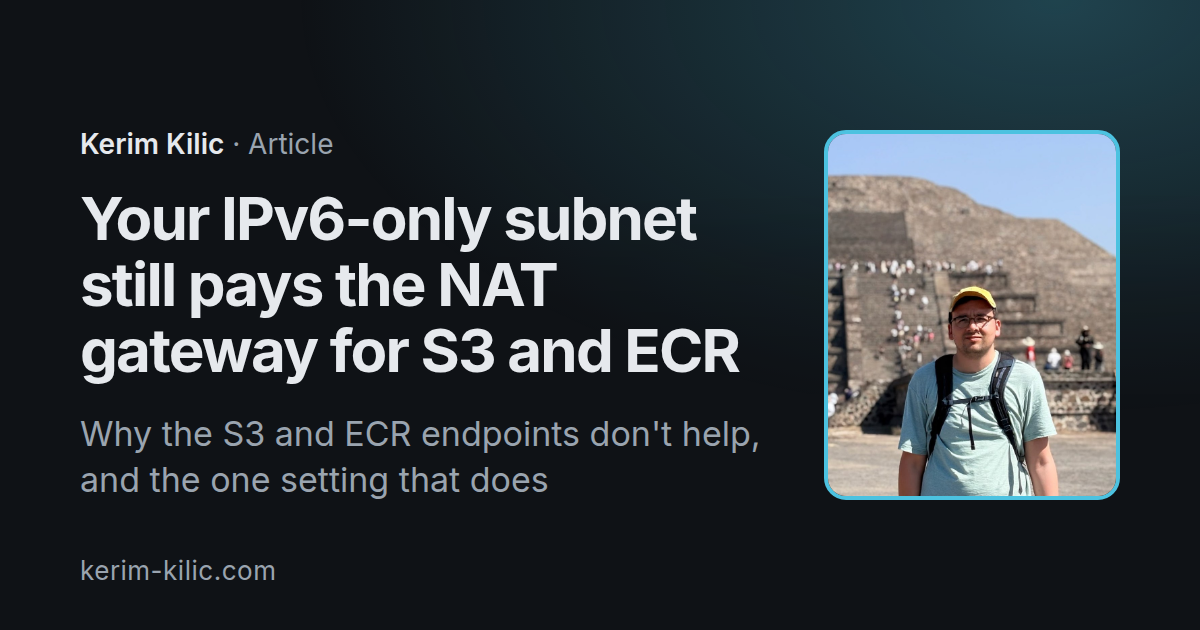
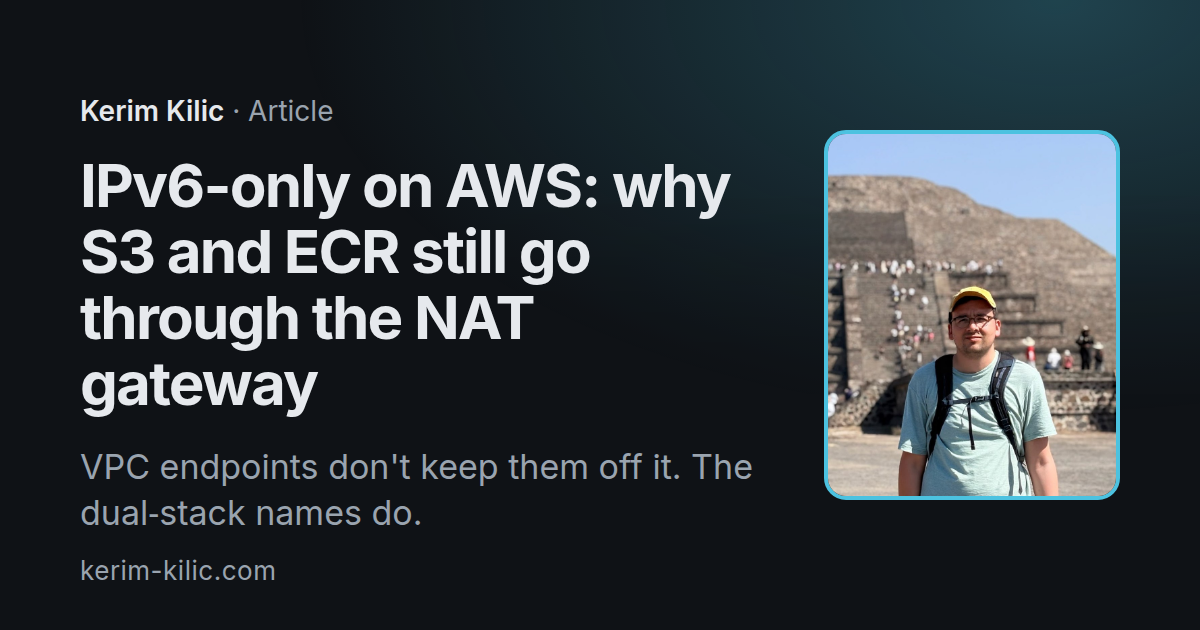
Retitle and tighten the IPv6-only NAT costs article after review
The title is now "IPv6-only on AWS: why S3 and ECR still go through the NAT
gateway". The GitHub-through-NAT64 comparison is removed: one burst against one
server is not enough to blame NAT64. The S3, ECR and interface endpoint sections
sit under the NAT gateway section, a dig check shows readers how to see which way
a name goes, quoted output matches the published lab captures, and the results
diagram shows the dual-stack STS and Systems Manager names going through the
interface endpoints in step 4. The social card follows the new title.

Changed region(s): [[0.0617, 0.1508, 0.6475, 0.8444]]

diff --git a/content/articles/ipv6-only-subnets-nat-costs.md b/content/articles/ipv6-only-subnets-nat-costs.md
@@ -1,15 +1,15 @@
 ---
-title: "Your IPv6-only subnet still pays the NAT gateway for S3 and ECR"
+title: "IPv6-only on AWS: why S3 and ECR still go through the NAT gateway"
 date: 2026-12-05
-description: "In an IPv6-only subnet, S3 downloads and ECR image pulls go through NAT64 by default, VPC endpoints or not. A lab shows why, what it costs, and the one setting that fixes it."
+description: "In an IPv6-only subnet, S3 downloads and ECR image pulls go through NAT64 by default, VPC endpoints or not. A lab shows why, what it costs, and how the dual-stack names fix it."
 tags: ["aws", "ipv6", "networking", "vpc", "ecr"]
 image: "og/ipv6-only-subnets-nat-costs.png"
 draft: true
 ---
 
-I put an EC2 instance in a subnet with no IPv4 range at all, gave it the usual way out to the IPv4 internet, DNS64 and NAT64, and added an S3 gateway endpoint and ECR interface endpoints so AWS traffic would stay off the NAT gateway. Then I pulled a 42 MB image from ECR and downloaded a 20 MB file from S3, and watched the NAT gateway's byte counter. It went up by 42 MB and then by 21 MB. Every byte went through the NAT gateway, at $0.045 per GB, endpoints or not.
+I put an EC2 instance in a subnet with no IPv4 range at all. I gave it the usual way out to the IPv4 internet, DNS64 and NAT64, and added an S3 gateway endpoint and ECR interface endpoints so AWS traffic would stay off the NAT gateway. Then I pulled a 42 MB image from ECR and downloaded a 20 MB file from S3, and watched the NAT gateway's byte counter. It went up by 42 MB and then by 21 MB. Every byte went through the NAT gateway, at $0.045 per GB, endpoints or not.
 
-The fix turned out to be one setting. With it, the same pull and the same download went through the NAT gateway with 0 bytes. This article is about why that happens, how to see it in your own subnets, and what else an IPv6-only instance does that I didn't expect. I ran everything in a small lab in a sandbox account; the code and the full output are linked at the end.
+The fix turned out to be a name: the dual-stack one. Through the dual-stack names, the same pull and the same download added 0 bytes to the NAT gateway. This article is about why that happens, how to see it in your own subnets, and what else an IPv6-only instance does that I didn't expect. I ran everything in a small lab in a sandbox account; the code and the full output are linked at the end.
 
 ## How an IPv6-only instance reaches IPv4 at all
 
@@ -52,7 +52,18 @@ Most AWS services have two sets of public endpoints: the default ones, under `am
 
 The SDKs, the CLI and Docker use the default names unless you tell them otherwise, and so does everything that copies them: the repository URI the ECR console shows you, and the `repository_url` that Terraform gives you for an ECR repository, are both the default name. In an IPv6-only subnet with DNS64, every default name gets a made-up `64:ff9b::` address, and every byte to it goes through the NAT gateway.
 
-## S3: the gateway endpoint you added isn't used
+You can see which way a name goes from any instance in the subnet. Look it up with `dig AAAA <name>` (on Amazon Linux, `dig` is in the `bind-utils` package): an answer in `64:ff9b::` means the traffic goes through the NAT gateway, and a real IPv6 address means it doesn't. In step 3 of the lab, before any endpoints:
+
+```text
+s3.us-east-1.amazonaws.com                   AAAA  64:ff9b::198.51.100.19 ...
+s3.dualstack.us-east-1.amazonaws.com         AAAA  2001:db8:8:1::100f:e5b7 ...
+<account>.dkr.ecr.us-east-1.amazonaws.com    AAAA  64:ff9b::203.0.113.117
+<account>.dkr-ecr.us-east-1.on.aws           AAAA  2001:db8:13:2:ca2f:527d:4816:ad61
+```
+
+Check the names your clients actually use: the endpoints your SDKs call and the registry in your image references.
+
+### S3: the gateway endpoint you added isn't used
 
 The usual advice for S3 traffic from private subnets is an S3 gateway endpoint: it's free, and it keeps S3 traffic off the NAT gateway. In an IPv6-only subnet it can be IPv6 too: AWS supports [gateway endpoints of IP address type `ipv6`](https://docs.aws.amazon.com/vpc/latest/privatelink/gateway-endpoints.html), and the lab used one.
 
@@ -68,9 +79,9 @@ The NAT gateway agreed. Each 20 MB download through the default name added about
 
 The fix is to make clients use the dual-stack name. For the SDKs and the CLI that's one setting, `AWS_USE_DUALSTACK_ENDPOINT=true` or `use_dualstack_endpoint = true` in the config file. It applies to every service the client calls, and a request [fails rather than falls back](https://docs.aws.amazon.com/sdkref/latest/guide/feature-endpoints.html) if a service has no dual-stack endpoint in your Region, so check the services you use first. With the setting on, S3 traffic goes to S3's real IPv6 addresses, and the gateway endpoint, if there is one, carries it.
 
-## ECR: the registry name decides where the layers come from
+### ECR: the registry name decides where the layers come from
 
-This one cost more per request, and it's the one I'd check first in a real account, because image pulls are often the biggest thing a workload downloads.
+This one moved the most bytes in the lab, and it's the one I'd check first in a real account, because image pulls are often the biggest thing a workload downloads.
 
 When Docker or containerd pulls an image from ECR, the registry doesn't send the layers itself. It answers each layer request with a redirect to S3. The lab looked at where that redirect pointed, and the answer depends on the name you pulled from:
 
@@ -85,13 +96,13 @@ The ECR interface endpoints didn't change that. ECR supports them over IPv6, and
 
 The fix is the dual-stack registry name in your image references, `<account>.dkr-ecr.<region>.on.aws/<repository>:<tag>`. The same login works for both names. The dual-stack pull worked from the first step of the lab, with nothing but the egress-only internet gateway: no DNS64, and no route to the NAT gateway.
 
-## Interface endpoints do work, for the services that use them
+### Interface endpoints do work, for the services that use them
 
 For STS and Systems Manager, interface endpoints did what you'd hope. The endpoints have to be of [IP address type `ipv6`](https://docs.aws.amazon.com/vpc/latest/privatelink/create-interface-endpoint.html) to live in an IPv6-only subnet, and with private DNS on, the default names answer with the endpoint's IPv6 address and no A record at all, so DNS64 has nothing to make up:
 
 ```text
 sts.us-east-1.amazonaws.com   A     - (Name or service not known)
-sts.us-east-1.amazonaws.com   AAAA  2001:db8:1:10:b000:90c:2a17:a035
+sts.us-east-1.amazonaws.com   AAAA  2001:db8:1:10:82b6:a557:cacf:84f2
 ```
 
 The CLI's default settings then reached both services through the endpoints, over IPv6. Interface endpoints [cost](https://aws.amazon.com/privatelink/pricing/) $0.01 an hour per Availability Zone and $0.01 per GB, so they make sense for services you call a lot and can't move to dual-stack names.
@@ -100,11 +111,17 @@ Not every endpoint supports IPv6, and AWS's documentation isn't the place to che
 
 ```sh
 aws ec2 describe-vpc-endpoint-services \
-  --service-names com.amazonaws.us-east-1.s3 com.amazonaws.us-east-1.ecr.dkr com.amazonaws.us-east-1.ec2messages \
-  --query 'ServiceDetails[].[ServiceName,ServiceType[0].ServiceType,SupportedIpAddressTypes]'
+  --service-names com.amazonaws.us-east-1.s3 \
+                  com.amazonaws.us-east-1.ecr.dkr \
+                  com.amazonaws.us-east-1.ec2messages \
+  --query 'ServiceDetails[].[ServiceName,
+                             ServiceType[0].ServiceType,
+                             SupportedIpAddressTypes]'
 ```
 
 In `us-east-1`, in November 2026, STS, Systems Manager, `ssmmessages`, both ECR endpoints and S3 (gateway and interface) supported IPv6. `ec2messages`, one of the endpoints the Systems Manager agent uses, didn't. And AWS's own [IPv6 support table](https://docs.aws.amazon.com/vpc/latest/userguide/aws-ipv6-support.html) said S3's private endpoints don't support IPv6, which the API and the lab both contradict.
+
+{{< diagram name="ipv6-lab-results" caption="The lab's results, step by step. Amber is through NAT64: it works, and you pay per GB. In step 4, the interface endpoints take over both the default and the dual-stack STS and Systems Manager names, but S3's default name and image layers pulled through ECR's default registry name still go through NAT64. Only the dual-stack names stay off the NAT gateway in every step." >}}
 
 ## What it costs
 
@@ -118,19 +135,15 @@ In `us-east-1`, at November 2026 prices:
 
 Take a workload that pulls 500 GB of images from ECR and downloads 1 TB from S3 a month, from IPv6-only subnets. On default names, that's 1.5 TB through NAT64, about $68 a month in processing alone. On dual-stack names, it's nothing. You still want the NAT gateway for the IPv4-only internet; you just don't want AWS's own traffic in it.
 
-## Two other things I didn't expect
+## An IPv6-only instance has an IPv4 address
 
-**An IPv6-only instance has an IPv4 address.** It's a link-local one, from the instance itself:
+I didn't expect this one. It's a link-local address, from the instance itself:
 
 ```text
-ens5   UP   169.254.164.83/32 metric 512 2001:db8:1:10:9635:6d55:6dcd:dc6a/128 fe80::10ff:d7ff:fe71:494d/64
+ens5   UP   169.254.164.83/32 metric 512 2001:db8:20:10:9635:6d55:6dcd:dc6a/128 fe80::10ff:d7ff:fe71:494d/64
 ```
 
 and the instance has routes from it to the services AWS runs on link-local addresses: the DNS resolver at `169.254.169.253`, the [instance metadata service](https://docs.aws.amazon.com/AWSEC2/latest/UserGuide/instancedata-data-retrieval.html) at `169.254.169.254` and the time service at `169.254.169.123`. I expected to have to switch on the metadata service's IPv6 endpoint, which is off by default, for the SDK to find the instance's credentials. I didn't. On an instance with the IPv6 endpoint left off, the metadata service answered on `169.254.169.254` and the CLI worked with its default settings. The only calls that failed were the ones I'd told to use the IPv6 endpoint (`AWS_EC2_METADATA_SERVICE_ENDPOINT_MODE=IPv6`). Package updates worked too: Amazon Linux 2023's repositories are reachable over IPv6.
-
-**GitHub through NAT64 was unreliable, and plain IPv4 wasn't.** Through NAT64, 8 of 36 requests to `github.com` failed over the day: the connection opened in milliseconds, then nothing came back, or the connection died, or a `504`. They came in bursts: some runs lost most of their requests, others none. Over plain IPv4 through the same NAT gateway, a control instance made 18 requests and none failed, including to a GitHub address that failed through NAT64 three minutes later. Every other IPv4-only host I tried answered every time. That points at something on the NAT64 path, but 18 requests aren't enough to be sure, and I haven't found the cause. If you depend on GitHub from IPv6-only subnets, test it with real traffic over more than an afternoon.
-
-{{< diagram name="ipv6-lab-results" caption="The lab's results, step by step. Amber is through NAT64: it works, and you pay per GB. In step 4, the interface endpoints take over the default STS and Systems Manager names, but S3's default name and image layers pulled through ECR's default registry name still go through NAT64. Only the dual-stack names stay off the NAT gateway in every step." >}}
 
 ## A checklist for an IPv6-only subnet
 
@@ -157,11 +170,10 @@ Everything above that says "in the lab" comes from three runs on one day in a sa
 
 The instances run their checks every five minutes and read their step from their own tag, so moving to the next step changes the network, not the instances. The test downloads are spaced more than a minute apart, so the NAT gateway's per-minute metrics show each one on its own.
 
-It costs money while it runs: in `us-east-1`, about $0.06 an hour for the NAT gateway, its public IPv4 address and a `t3.micro`, plus $0.04 an hour for step 4's four interface endpoints and a few cents of NAT processing for the test downloads. All three of my runs together cost well under a dollar.
+It costs money while it runs: in `us-east-1`, about $0.06 an hour for the NAT gateway, its public IPv4 address and a `t3.micro`, plus $0.04 an hour for step 4's four interface endpoints and a few cents of NAT processing for the test downloads. All three of my runs together cost well under a dollar. Set a budget alert anyway, and destroy it when you're done.
 
 ## What I'd look at next
 
-- Why GitHub failed through NAT64 and not over plain IPv4: a test over hours rather than an afternoon, and a look at whether large responses are the ones that go missing.
 - The other direction, getting in: an Application Load Balancer in front of instances in IPv6-only subnets, and how many public IPv4 addresses that really saves.
 - An IPv6 EKS cluster, the follow-up to [the IPv4 exhaustion article]({{< relref "articles/eks-ipv4-exhaustion" >}}), where image pulls from ECR are exactly the traffic this article is about.
 
